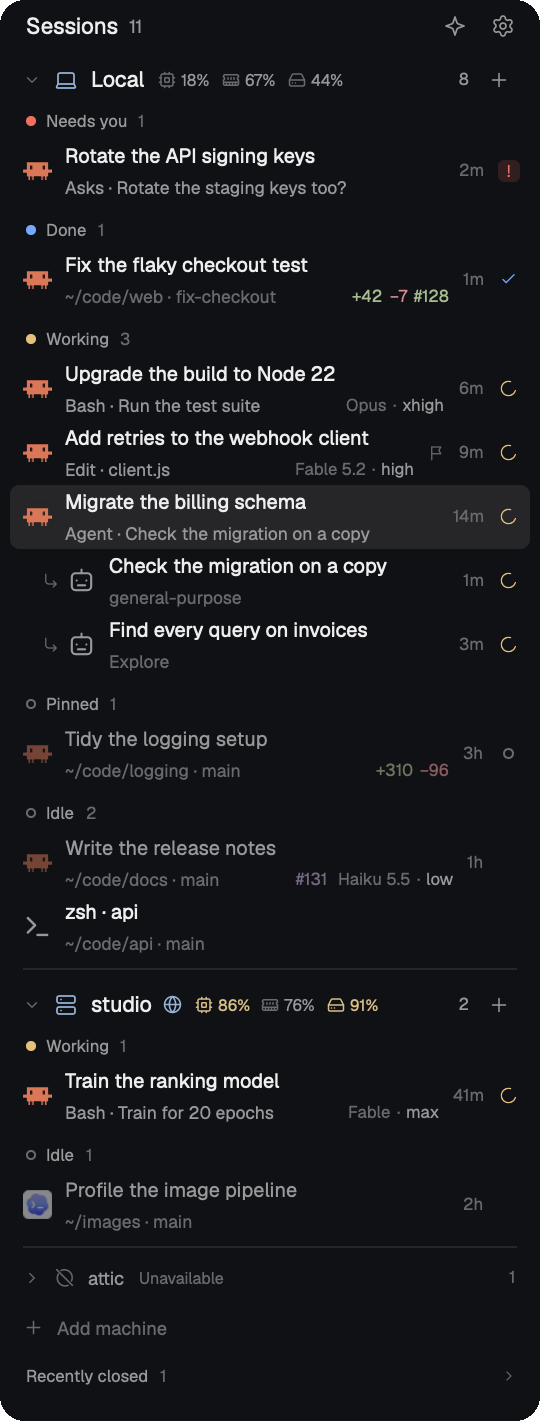
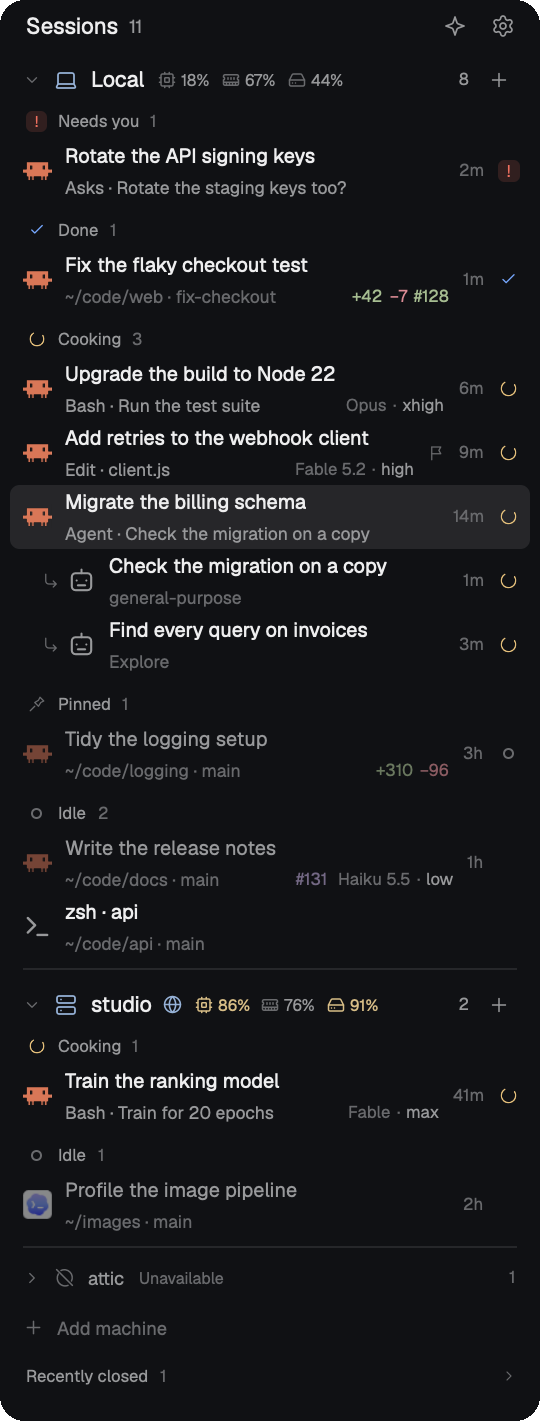
feat: Working becomes Cooking; section headings wear their rows' marks
The Working section, its tooltips and summaries now say Cooking. Each status
heading shows the mark its rows use instead of a colored dot: the spinner for
Cooking, the check for Done, the ! for Needs you, a pin for Pinned and the
ring for Idle.

diff --git a/mods/agent-sidebar/main.js b/mods/agent-sidebar/main.js
@@ -805,7 +805,7 @@ export default class AgentSidebar extends View {
       : row.kind === "shell" ? "Shell" : row.kind === "process" ? "Program" : "Agent";
     const context = [...new Set([kind, row.space === row.title ? "" : row.space, row.program?.name].filter(Boolean))].join(" · ");
     const word = !row.background.length ? WORDS[row.status]
-      : row.background.some(reason => reason !== "goal") ? "Working in the background" : "Goal active";
+      : row.background.some(reason => reason !== "goal") ? "Cooking in the background" : "Goal active";
     const state = !row.available ? "Unavailable" : row.kind === "agent" && row.since ? `${word} · ${duration(now - row.since)}` : word;
     const from = !row.parent ? "" : row.inner ? `Inside ${row.parent}` : `Started from ${row.parent}`;
     const git = this.gitOf(row);
@@ -1084,14 +1084,25 @@ export default class AgentSidebar extends View {
         .when(row.background.length > 0, el => el.loop("opacity", { from: 0.4, to: 1, period: 1600 })));
   }
 
-  // A section's heading is a quiet label: a dot carries the status's color, so the colors in
+  // A status heading wears the mark its sessions' rows do: the spinner for Cooking, the check
+  // for Done, the ! for Needs you; Pinned a pin and Idle the ring.
+  sectionMark(t, id) {
+    if (id === "working") return glyph("spinner", 11).spin(900);
+    if (id === "done") return glyph("check", 11);
+    if (id === "blocked") return div().size(13).rounded(4).bg(t.blocked + "26").text_size(9.5).font_bold()
+      .flex().items_center().justify_center().child("!");
+    if (id === "pinned") return glyph("pin", 11);
+    return div().size(7).rounded(4).border(1.5).border_color(t.idle ?? t.dim);
+  }
+
+  // A section's heading is a quiet label: a mark carries the status's color, so the colors in
   // the list are the sessions' own marks. Its chevron shows while it is folded or pointed at.
   // `first`: the first under its machine, with no space above it.
   section(t, group, section, first = true) {
     const key = `${group.key}:${section.id}`;
     const open = this.isOpen(key);
-    // A status's section (Needs you leads whatever the grouping): a dot, filled in the status's
-    // color, or a ring for Pinned and Idle, which have none. Not a space's or a project's.
+    // A status's section (Needs you leads whatever the grouping): its status's mark, in its
+    // color. Not a space's or a project's.
     const byStatus = !/^(space|project):/.test(section.id);
     const pointed = this.hoveredSection === key;
     // Sessions: a session's own sub-agents are part of it.
@@ -1136,9 +1147,8 @@ export default class AgentSidebar extends View {
       .on_mouse_up("left", (_e, cx) => this.release(cx, group, section))
       .when(Boolean(dot), el => el.child(div().id(`color-${key}`).size(8).flex_none().rounded(4).bg(dot).cursor_pointer().tooltip("Change color")
         .on_click((_e, cx) => { cx.stop_propagation(); if (!this.preview) this.recolor(space); cx.notify(); })))
-      .when(byStatus, el => el.child(div().id(`status-${key}`).size(6).flex_none().rounded(3)
-        .when(Boolean(section.status), el => el.bg(t[section.status]))
-        .when(!section.status, el => el.border(1).border_color(t.dim))))
+      .when(byStatus, el => el.child(div().id(`status-${key}`).size(14).flex_none().flex().items_center().justify_center()
+        .text_color(section.status ? t[section.status] : t.dim).child(this.sectionMark(t, section.id))))
       .child(div().min_w(0).truncate().text_color(target ? t.foreground : t.muted).child(section.label))
       .child(div().flex_none().text_color(t.dim).child(String(n)))
       .when(Boolean(fresh), el => el.child(div().id(`fresh-${key}`).flex_none().max_w(120).truncate().px(4).rounded(4).bg(t.accent + "22").text_size(9.5).text_color(t.accent).child(fresh)))

diff --git a/mods/agent-sidebar/settings.js b/mods/agent-sidebar/settings.js
@@ -24,7 +24,7 @@ const SWITCHES = {
     ["animations", "Animate changes", "Rows slide to their new place, and a new status fades in."],
   ],
   list: [
-    ["subagents", "Sub-agents", "Claude Code's own sub-agents, under their session. Hidden, they still keep it in Working."],
+    ["subagents", "Sub-agents", "Claude Code's own sub-agents, under their session. Hidden, they still keep it in Cooking."],
     ["shells", "Shells and programs", "Terminals that run no agent."],
     ["away", "Machines that are away", "One dim line for each machine Herdr can't reach, after the others."],
     ["stats", "CPU, memory and disk", "How busy and how full each machine is, beside its name. Off, no machine is asked."],
@@ -87,7 +87,7 @@ export function renderSettings(view) {
     layout: () => [
       choice("set-density", "Rows", "Expanded gives each session a second line: where it works, what it does and what it runs with.",
         [["compact", "Compact"], ["expanded", "Expanded"]], density, key => setShared(DENSITY_KEY, key)),
-      choice("set-group", "Group by", "Status: Needs you, Done, Working, Pinned, Idle. Space: each of Herdr's spaces. Project: spaces of one name on every machine, as one.",
+      choice("set-group", "Group by", "Status: Needs you, Done, Cooking, Pinned, Idle. Space: each of Herdr's spaces. Project: spaces of one name on every machine, as one.",
         [["status", "Status"], ["space", "Space"], ["project", "Project"]], group, key => setShared(GROUP_KEY, key)),
       ...SWITCHES.layout.map(item => toggle(item)),
     ],

diff --git a/mods/agent-sidebar/model.js b/mods/agent-sidebar/model.js
@@ -1,7 +1,7 @@
 // Pure presentation model. Machine identity comes from Herdr, never from a folder name.
 import { STALE_MS } from "./background.js";
 
-export const WORDS = { blocked: "Needs you", done: "Done", working: "Working", idle: "Idle", unknown: "No status" };
+export const WORDS = { blocked: "Needs you", done: "Done", working: "Cooking", idle: "Idle", unknown: "No status" };
 const PRIORITY = { blocked: 60, done: 50, working: 40 };
 export const machineOf = address => address?.includes("/") ? address.slice(0, address.indexOf("/")) : null;
 const statusOf = status => status === "error" ? "blocked" : Object.hasOwn(WORDS, status) ? status : "unknown";
@@ -208,7 +208,7 @@ export function backgroundLines(row, now = Date.now()) {
 export const SECTIONS = [
   { id: "blocked", label: "Needs you", status: "blocked" },
   { id: "done", label: "Done", status: "done" },
-  { id: "working", label: "Working", status: "working" },
+  { id: "working", label: "Cooking", status: "working" },
   { id: "pinned", label: "Pinned", status: null },
   { id: "idle", label: "Idle", status: null },
 ];

diff --git a/README.md b/README.md
@@ -4,10 +4,10 @@
 
 A sidebar for the [Herdr](https://herdr.dev) desktop app: every agent, shell and program you run,
 on this computer and on your other machines, in one list grouped by machine and by what each one
-needs from you. Agents that finished their turn but left work running stay under Working, and
+needs from you. Agents that finished their turn but left work running stay under Cooking, and
 Claude Code's sub-agents appear under the session that started them.
 
-![Herdr's sidebar, titled Sessions 11, with a star and a gear. Under "Local", a laptop, with its CPU at 18%, its memory at 67% and its disk at 44% beside the name: Needs you, "Rotate the API signing keys" asking "Rotate the staging keys too?"; Done, "Fix the flaky checkout test" in web on fix-checkout, +42 −7, pull request #128; Working, "Upgrade the build to Node 22" running the test suite, Opus · xhigh, "Add retries to the webhook client" editing client.js with a flag for its goal, Fable 5.2 · high, and "Migrate the billing schema", selected, with two sub-agents under it, "Check the migration on a copy" and "Find every query on invoices"; Pinned, "Tidy the logging setup", +310 −96; Idle, "Write the release notes" with pull request #131, Haiku 5.5 · low, and the shell "zsh · api". Under "studio", a server marked remote by a small globe, at 86% CPU and with its disk 91% full, both in amber, and 76% memory: Working, "Train the ranking model" training for 20 epochs, Fable · max; Idle, "Profile the image pipeline". Then one dim line, "attic · Unavailable", Add machine, and Recently closed 1. These are example sessions.](preview.png)
+![Herdr's sidebar, titled Sessions 11, with a star and a gear. Under "Local", a laptop, with its CPU at 18%, its memory at 67% and its disk at 44% beside the name: Needs you, "Rotate the API signing keys" asking "Rotate the staging keys too?"; Done, "Fix the flaky checkout test" in web on fix-checkout, +42 −7, pull request #128; Cooking, "Upgrade the build to Node 22" running the test suite, Opus · xhigh, "Add retries to the webhook client" editing client.js with a flag for its goal, Fable 5.2 · high, and "Migrate the billing schema", selected, with two sub-agents under it, "Check the migration on a copy" and "Find every query on invoices"; Pinned, "Tidy the logging setup", +310 −96; Idle, "Write the release notes" with pull request #131, Haiku 5.5 · low, and the shell "zsh · api". Under "studio", a server marked remote by a small globe, at 86% CPU and with its disk 91% full, both in amber, and 76% memory: Cooking, "Train the ranking model" training for 20 epochs, Fable · max; Idle, "Profile the image pipeline". Then one dim line, "attic · Unavailable", Add machine, and Recently closed 1. These are example sessions.](preview.png)
 
 This is an unofficial mod. It is not affiliated with Herdr.
 
@@ -123,15 +123,15 @@ With only this computer connected there are no machine headings, and its **+** s
 Settings in the title bar.
 
 Each machine lists its sessions in the sections Herdr's Agents list uses, most urgent first. A
-section's heading is a gray label with a dot in its status's color (a ring for Pinned and Idle),
-and its chevron shows while it is folded or pointed at:
+section's heading is a gray label with its rows' mark in its status's color (a pin for Pinned, a
+ring for Idle), and its chevron shows while it is folded or pointed at:
 
 | Section | Mark | What it means |
 | --- | --- | --- |
 | Needs you | Red **!** | Waiting on a permission or a question |
 | Done | Check | Finished a turn you haven't looked at |
-| Working | Turning ring | Working on a turn |
-| Working | Pulsing prompt, robot or flag | Its turn is over, but something it started still runs (below) |
+| Cooking | Turning ring | Working on a turn |
+| Cooking | Pulsing prompt, robot or flag | Its turn is over, but something it started still runs (below) |
 | Pinned | Small ring | A pinned session with nothing to report |
 | Idle | Nothing | Waiting for you to say something, or a shell or program with no status |
 
@@ -150,7 +150,7 @@ finished sub-agent's news is its parent's to report.
 ### Work that goes on after a turn
 
 Herdr marks an agent done or idle when its turn ends. With Claude Code, that can happen while
-the agent still waits on something it started. The sidebar keeps such an agent under Working,
+the agent still waits on something it started. The sidebar keeps such an agent under Cooking,
 and its mark says what it waits on:
 
 - **A prompt mark:** a background shell or monitor, such as a test run or a dev server. The
